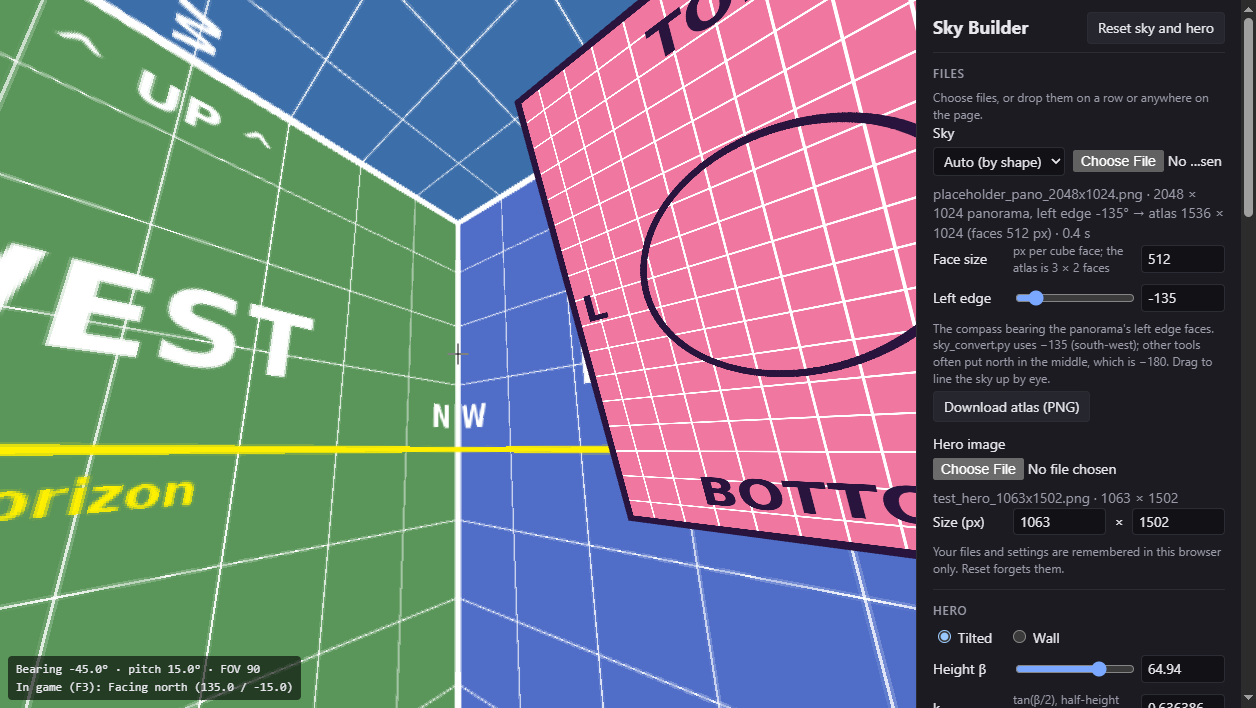
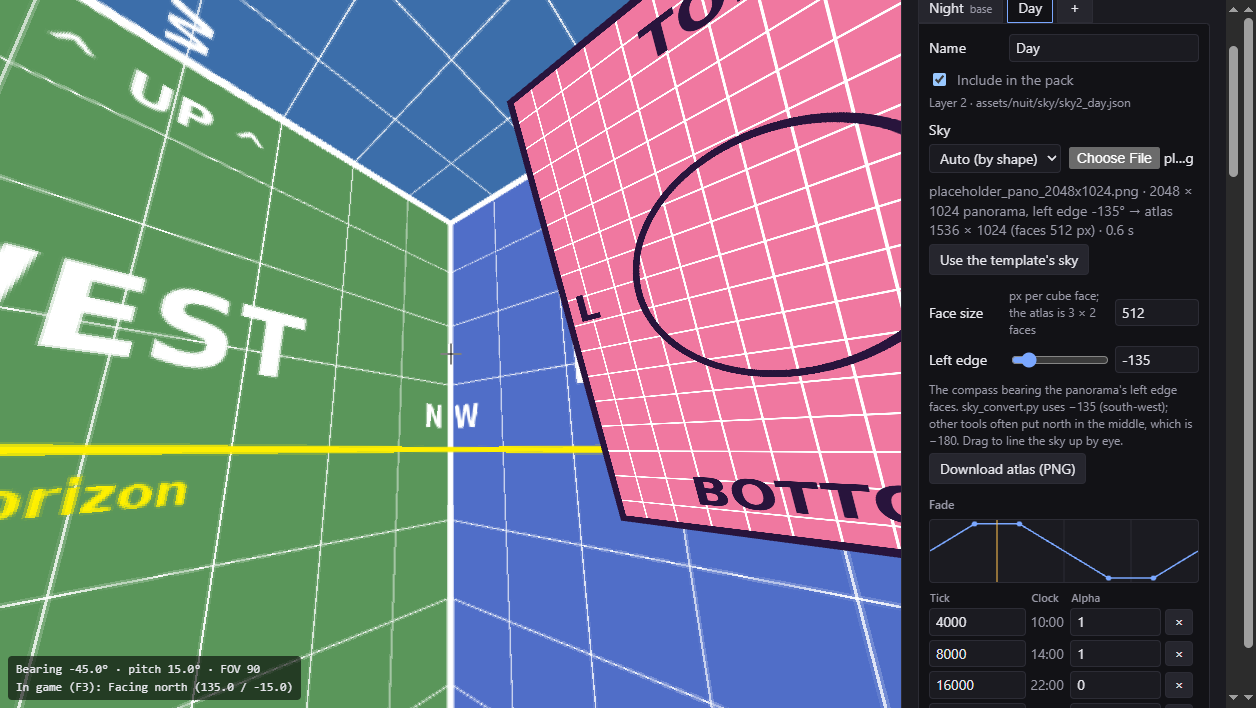
docs: record sky tabs as built (PLAN 17.13, BRIEF 2, 4.9, 5, 8-10, 13, 14, README)
BRIEF: the tool manages the sky layers as tabs (section 2); a new 4.9 on
fade and layer order from Fade, AbstractSkybox and SkyboxManager,
including that 26.2 has no alwaysOn; the hero's layer is automatic; the
tab inputs, Show selector, per-tab export and pack assembly; the blended
sky layers in place of the crossfade stretch goal; the new sources; and
a Sky tabs milestone. PLAN 17.13 records what was built, how it differs
from the plan, and what was checked in headless Edge. The README covers
the tabs, with new screenshots from the sample images.

diff --git a/docs/BRIEF.md b/docs/BRIEF.md
@@ -61,6 +61,15 @@ All three rotate together, once per in-game day, around the vertical axis.
 Their `rotation` blocks must be identical **except for `mapping`**, which only
 the hero layer changes. Working copies are in `reference/pack-example/`.
 
+**Sky tabs (since 2026-10-25, PLAN §17).** The tool manages the sky layers too, as
+tabs: one tab per `nuit:square-textured` layer, in layer order, so a pack can have
+night and day skies and more (sunrise, sunset, …). The first *included* tab is the
+**base**: always on, written with empty `fade.keyFrames`. Each tab after it fades in
+over the ones before by its keyframes (§4.9). With $m$ included tabs, the skies are
+layers $1 \ldots m$ and the hero is layer $m + 1$. The tool writes each sky layer's
+file too, keeping every field of the template's layer except `texture`, `layer` and
+`fade.keyFrames`.
+
 Textures live at `assets/sasheen/textures/sky/` and are referenced as
 `sasheen:textures/sky/<name>.png`. The JSON files live at `assets/nuit/sky/`.
 
@@ -184,6 +193,17 @@ Confirmed by reading the source (§13), and re-checked during planning (PLAN §1
    own sampler. So vanilla `.mcmeta` rules apply: without `"blur": true` a texture is
    sampled with nearest filtering and no mipmaps (the sky atlases); with it, linear
    filtering (the hero, via `hero.png.mcmeta`). Details in PLAN §1.6.
+9. **Fade and layer order** (`Fade.java`, `AbstractSkybox.updateAlpha`,
+   `SkyboxManager`; PLAN §17.1). A layer's alpha is its fade alpha times a
+   "conditions" alpha, which is 1 in the target environment (§1). `fade` has only
+   `duration` (default 24000) and `keyFrames` (tick → alpha, clamped to [0, 1]);
+   a keyframe outside $[0, \text{duration})$ makes the layer fail to load.
+   **There is no `alwaysOn` field**: empty `keyFrames` means always on. Otherwise
+   the alpha is interpolated **linearly** between the keyframes either side of
+   the time, wrapping round the day, in whole ticks (PLAN §17.2 has the formula).
+   Layers with alpha 0 are skipped; the rest are drawn in `layer` order, each
+   with the "normal" blend and `ColorModulator (1, 1, 1, alpha)`, so for opaque
+   atlases a layer over another shows $\alpha\,S + (1 - \alpha)\,C$.
 
 ---
 
@@ -225,7 +245,8 @@ Rules:
 - Round `uvRange` values to **4 decimal places** and `mapping` to **2**.
 - **Render the preview from the rounded values**, so the preview matches the
   game exactly.
-- Editable fields: `texture`, `layer`, `mapping` (X and Y; Z stays 0) and `uvRange`.
+- Editable fields: `texture`, `mapping` (X and Y; Z stays 0) and `uvRange`.
+  `layer` is set by the sky tabs: $m + 1$ for $m$ included tabs (§2).
 - Everything else stays fixed, especially `speed`, `axis` and `skyboxRotation`,
   which must match the sky layers.
 - Empty `keyFrames` means always visible. `conditions.worlds` is a legacy alias
@@ -326,7 +347,15 @@ then ×1.15 or ×1.5. In the file, `k` values are given unrounded; use them as-i
 ## 8. Functional requirements
 
 ### Inputs
-- **Sky:** file picker plus drag-and-drop, with a type dropdown: **Auto (by
+- **Sky tabs** (PLAN §17): a tab strip at the top of the panel, one tab per sky
+  layer, built from the pack template's sky layers. Tabs can be added, renamed,
+  reordered (drag, or Move) and deleted (one must remain). Each tab has an
+  **Include** checkbox, its own **Sky** (below), and its **fade keyframes**: rows
+  of tick, clock time and alpha, with a graph of the alpha over the day, "Add at
+  the current time", and "Template's" to restore the template layer's. The base
+  tab has none. A tab with no sky of its own shows the template's texture, or the
+  default sky (the starter's guide atlases).
+- **Sky** (per tab): file picker plus drag-and-drop, with a type dropdown: **Auto (by
   shape)** (the default), **Atlas** or **Panorama**. An atlas must be 3:2. A
   panorama must be 2:1 equirectangular; it is converted to an atlas in the browser
   with exactly `reference/sky_convert.py`'s convention (left edge = south-west),
@@ -337,8 +366,8 @@ then ×1.15 or ×1.5. In the file, `k` values are given unrounded; use them as-i
   message. Default to `reference/samples/placeholder_atlas.png`.
 - **Hero image:** file picker plus drag-and-drop. Read its width and height
   automatically, with manual override fields. Respect alpha.
-- **Reset:** one button puts back the sample sky, the test card and every hero
-  setting, after a confirmation (PLAN §13.8).
+- **Reset:** one button puts back the starter's sky tabs, the test card and every
+  hero setting, after a confirmation (PLAN §13.8, §17.9).
 - Everything runs locally in the browser. Use object URLs; never upload anything.
 
 ### Controls
@@ -351,10 +380,11 @@ Each slider has a linked number box, and the two stay in sync.
 | Bottom elevation b | −30° to 60° | 3° | |
 | Compass ψ (mapping Y) | −180° to 180° | 0° | Raw mapping Y; positive = toward west |
 | Mode | tilted / wall | tilted | Wall mode ships in M3 |
-| Time of day | 0–23 999 ticks | 6000 (noon) | **Preview only.** Shows clock time and θ. Play/pause. At noon θ = 0, so the hero sits exactly where the sliders say |
+| Time of day | 0–23 999 ticks | 6000 (noon) | **Preview only.** Shows clock time, θ and each sky layer's alpha. Play/pause. At noon θ = 0, so the hero sits exactly where the sliders say |
+| Show | all included tabs blended by time / this tab only | blended | **Preview only** (PLAN §17.5) |
 | Camera FOV | 30–110 | 70 | Minecraft's default is 70 |
 | Texture path | text | `sasheen:textures/sky/hero.png` | |
-| Layer | integer | 3 | |
+| Layer | read-out | 3 | Set by the sky tabs: $m + 1$ (§2) |
 
 ### Readouts
 $a$, $k$, $ak$, angular height and width, top and bottom elevations, distance
@@ -362,10 +392,11 @@ to each constraint limit, and warnings when a §6.1 constraint is broken.
 
 ### Outputs
 - A live JSON panel, with Copy and Download (`sky3_image.json`).
+- Per sky tab: Copy and Download of its layer file, as the pack would get it.
 - Download for `hero.png.mcmeta`.
-- **Assemble pack** (PLAN §16): a resource pack zip built from a template (uploaded, or the bundled starter),
-  with the current hero, its `.mcmeta`, this JSON, and the current sky as the day layer (or night, both or
-  neither).
+- **Assemble pack** (PLAN §16, §17.8): a resource pack zip built from a template (uploaded, or the bundled
+  starter), with the current hero, its `.mcmeta`, this JSON, and each included sky tab's layer file and sky.
+  Template sky layers whose tabs aren't included are left out.
 - Import: paste or load an existing `sky3_image.json` and recover the slider
   values (§6.3).
 
@@ -403,9 +434,11 @@ to each constraint limit, and warnings when a §6.1 constraint is broken.
   y rotation is $+\theta(T)$ from §4.7. The world transform is then
   $\text{Spin} \cdot M \cdot \mathbf{v}$, matching §4.5.
 - **Optional:** a toggle overlay that draws face edges and labels.
-- **Stretch:** day and night atlases with a crossfade preview using the day
-  layer's keyframes (4000 → 1, 8000 → 1, 16 000 → 0, 20 000 → 0, linear,
-  wrapping round), with night always on underneath.
+- **Sky layers** (PLAN §17.5): one set of six faces per tab, all in `spinGroup`.
+  The base is drawn opaque; each layer over it is transparent, with
+  `renderOrder` = its place and `opacity` = its fade alpha (§4.9), and hidden
+  at alpha 0. The hero and overlay draw above every sky layer. "This tab only"
+  shows the open tab alone, opaque.
 
 ---
 
@@ -417,15 +450,14 @@ to each constraint limit, and warnings when a §6.1 constraint is broken.
 - Editing the sky atlases themselves.
 - Any server or backend. The tool is a static site.
 
-**Planned:** a menu at the top of the app for separate day and night skies, so an assembled pack can get
-both at once (PLAN §16.6).
+**Done (2026-10-25):** separate day and night skies, and any number more, as sky tabs (PLAN §17).
 
 **Maybe later (back burner):** a heading control for sky *atlases*, like the
 panorama's left edge. It needs atlas → panorama → atlas resampling.
 
-**Stretch goals (after M5):** day/night crossfade preview; several heroes (each
-would be its own layer file, since `mapping` is per layer); remembering the
-last settings in `localStorage`.
+**Stretch goals:** several heroes (each would be its own layer file, since
+`mapping` is per layer, with its own fade keyframes). The crossfade preview and
+remembering settings are done.
 
 ---
 
@@ -487,7 +519,7 @@ Raise these in the plan. Don't guess silently. Status as of 2026-10-11:
 | `samples/starter_pack/` | The starter resource pack for Assemble pack: `pack.mcmeta`, the three layer files, and generated placeholder textures (PLAN §16.7) |
 | `samples/placeholder_pano_2048x1024.png` | The placeholder atlas as a panorama (`sky_convert.py to-pano`), for trying the panorama input |
 | `samples/pano_test_256x128.png`, `pano_test_atlas_f64.png`, `pano_test_atlas_f37.png` | A synthetic panorama and `sky_convert.py to-atlas` output from it at faces 64 and 37: test fixtures for the browser port (PLAN §13.5) |
-| `pack-example/assets/nuit/sky/*.json` | The three working layer files. Note: `sky1`/`sky2` still have the old top-level `"blend"` object, which 26.2 ignores |
+| `pack-example/assets/nuit/sky/*.json` | The three working layer files. Note: `sky1`/`sky2` still have the old top-level `"blend"` object and `fade.alwaysOn`, both of which 26.2 ignores |
 | `pack-example/.../hero.png.mcmeta` | The filtering metadata |
 | `sky_convert.py` | Atlas ↔ panorama converter. Source of the face table in §3 |
 | `place_billboard.py` | Earlier panorama-based method, kept for reference only |
@@ -506,6 +538,9 @@ Base path:
 - `common/src/main/java/me/flashyreese/mods/nuit/components/Properties.java`: property fields and defaults
 - `common/src/main/java/me/flashyreese/mods/nuit/components/Blend.java`: the blend string
 - `common/src/main/java/me/flashyreese/mods/nuit/skybox/textured/SquareTexturedSkybox.java`: face orientation for the sky layers
+- `common/src/main/java/me/flashyreese/mods/nuit/components/Fade.java`: the fade fields (§4.9)
+- `common/src/main/java/me/flashyreese/mods/nuit/skybox/AbstractSkybox.java`: a layer's alpha (§4.9)
+- `common/src/main/java/me/flashyreese/mods/nuit/SkyboxManager.java`: layer order and skipping (§4.9)
 
 ### Vanilla 26.2 data
 
@@ -548,3 +583,11 @@ After each one, stop and report what was done and exactly how to check it.
   export → import → identical JSON).
 - **M5, Polish** (built as PLAN §15; files are remembered too, in IndexedDB). Drag-and-drop, `localStorage`, a `vite build` that works on
   GitHub Pages, and a README with screenshots.
+- **Sky tabs** (added 2026-10-25, PLAN §17). Tabs for any number of sky layers,
+  fade keyframes, Include, the blended preview, per-tab export, and Assemble
+  pack from the tabs. Checks: with the starter's tabs, the Day alpha is 0.5, 1,
+  0.5 and 0 at 6 AM, noon, 6 PM and midnight, in the preview and the readout;
+  excluding Night makes Day the always-on base, and the pack leaves out
+  `sky1_night.json`; a new tab becomes a new layer file with its own texture; a
+  reload brings back the tabs and their skies; a v1 session's sky becomes the
+  Day tab's.

diff --git a/docs/PLAN.md b/docs/PLAN.md
@@ -1,7 +1,8 @@
 # Sky Builder: implementation plan
 
 Status: **All milestones (M1–M5), the panorama input and Assemble pack (section 16) are done, merged and live at <https://0xsasheen.github.io/sky-builder/>** (2026-10-24).
-**Next: sky tabs with day/night blending (section 17), planned 2026-10-25 and waiting for approval.**
+**Sky tabs with day/night blending (section 17) are built and checked on branch `sky-tabs` (2026-10-25)**, waiting for
+the developer's in-game check and the merge.
 Decisions are in sections 11–17.
 
 Contents: 1. Source verification · 2. Architecture · 3. Types · 4. `math.ts` API and tests ·
@@ -208,6 +209,9 @@ src/
   scene.ts       Three.js: sky planes, hero quad, heroGroup, spinGroup, camera, overlay
   view.ts        drag-to-look + "look at hero" / "look north" (camera yaw/pitch only)
   ui.ts          controls, readouts, warnings, file loading, JSON panel, import/export
+  tabs.ts        the sky tabs (section 17): pure, like math.ts
+  pack.ts        reading templates and assembling packs (section 16)
+  saved.ts       what is remembered between visits (sections 15, 17.9)
   main.ts        creates state, wires ui -> state -> json -> scene, owns the render loop
 tests/
   math.test.ts   test vectors §7, scaling, inverse, round trip, spin, constraints
@@ -215,6 +219,8 @@ tests/
   faces.test.ts  Nuit face matrices vs our face table; hero placement (uses three, not the DOM)
   view.test.ts   scene.ts's face meshes and view.ts's camera: the M2 and M3 checks, done geometrically
   panorama.test.ts  panorama → atlas against sky_convert.py's convention and its own output (section 13)
+  tabs.test.ts   the sky tabs, layer plan, layer files and preview layers (section 17)
+  pack.test.ts, saved.test.ts   templates and packs; the saved session and the v1 migration
   png.ts         a small PNG reader for the test fixtures
 ```
 
@@ -1135,7 +1141,7 @@ the starter is used. An uploaded template wins over the starter.
 
 ---
 
-## 17. Sky tabs, with day/night blending (planned 2026-10-25, waiting for approval)
+## 17. Sky tabs, with day/night blending (approved 2026-10-25, built on branch `sky-tabs`)
 
 **Request:** separate day and night skies, blended by time of day as Nuit blends them, with editable fade keyframes.
 They are organised as **tabs** (Day, Night, and later any number more, such as Sunrise or Sunset), and each tab has an
@@ -1413,6 +1419,80 @@ The tab's status line and the pack report both say "using the default sky" (ambe
 - **§10:** the day/night menu is done; several heroes stays a stretch goal.
 - **§13:** the three Nuit files above.
 - **§14:** a "Sky tabs" milestone with the checks in 17.10.
+
+### 17.13 As built
+
+**Where the code is.**
+- `math.fadeAlpha` is the port of Nuit's fade.
+- `src/tabs.ts` holds the pure tab model:
+  - `mergeTemplate`, `layerPlan`, `effectiveKeyFrames`, `previewLayers`, `keyFrameProblems`, `skySource` and
+    `tabNotes`;
+  - `layerJson` and `layerOutputs`, which write the layer files.
+- `pack.ts` has `assembleTabs`, and `readTemplate` now reports each sky layer's `layer` value, keyframes and duration,
+  plus the template's other Nuit layers.
+- `scene.ts` has `layerDrawSettings` (pure) and one face group per tab (`setSkyLayers`, `setAtlas(tabId, …)`,
+  `setSkyTurnDeg(tabId, …)`, `removeSkyLayer`).
+- `saved.ts` has v2 and `fromSavedV1`.
+- `imagestore.ts` has the `sky:<tab id>` slots.
+- The tab strip, panel, keyframe editor, graph, Show selector and pack summary are in `ui.ts` and `index.html`.
+- `main.ts` has the per-tab sky state: its own file, load counter, converter, status, panorama options and
+  pack PNG.
+
+**Differences from the plan.**
+- **Commit order.** Every commit builds and passes its tests. So `assembleTabs` first sat beside `assemblePack`,
+  and `main.ts` showed its single sky as the only layer until the UI commit. That commit then removed
+  `assemblePack`, `SkyTarget` and `Session.packSky`. `saved.ts` v2 moved into the UI commit too, because its
+  `Session` type is tied to `main.ts`.
+- **Template layers.** `readTemplate` keeps a sky layer's `role` (night or day, now from empty keyFrames) as a label.
+  Nothing decides anything by it any more.
+- **Restoring a session** links saved tabs to the remembered template's layers, by file and then by name, without
+  adding a tab for a layer no tab takes. So a deleted tab stays deleted, while loading a template adds missing tabs
+  (decision 6).
+- **Keyframe edits** commit on Enter or when leaving the box, as the whole list. Alphas are clamped to [0, 1] and the
+  rows re-sorted by tick. **Add at the current time** refuses a tick that already has a keyframe, with a note, rather
+  than make a red duplicate.
+- **"Use the template's sky" / "Use the default sky"** appears when a tab has its own sky, and forgets it.
+- **Hero layer.** An imported JSON's layer is replaced by the tabs' hero layer, with an import note when it differs.
+- **Shared names.** A new tab's file name uses its layer number at the time of writing (for example
+  `sky2_sunrise.json` when Night is left out). It can share a `sky<n>_` prefix with another file
+  (`sky3_image.json`); Nuit loads every file in the folder, so only the `layer` values matter.
+
+**Checked in headless Edge** (fresh profiles, the dev server, files picked through the DevTools protocol):
+- **The starter's tabs.**
+  - Night (base) and Day open on the template's guide atlases.
+  - The Day alpha reads 0.50, 1.00, 0.50 and 0.00 at 6 AM, noon, 6 PM and midnight.
+  - The 6 AM view shows the two atlases half blended; midnight shows Night alone.
+- **Editing keyframes.**
+  - Setting Day's 4000 keyframe to 0.6 gives 0.80 at noon; **Template's** restores it.
+  - Tick 24000 gives a red row and a red note.
+- **A new tab.**
+  - **+** makes "Sky 3" (layer 3) with both amber notes, and the hero moves to layer 4.
+  - The name "Day" is refused.
+  - Renamed "Sunrise" with keyframes {0: 0, 23000: 1}, it is at alpha 1 at 05:00.
+- **Excluding Night.**
+  - Day becomes "Layer 1, the base: always on", and its editor is hidden.
+  - The preview note explains that the blend leaves Night out.
+  - The hero goes to layer 3.
+- **Per-tab Download** of Sunrise gives the starter day layer's fields with `texture`
+  `sasheen:textures/sky/sunrise.png`, `layer` 2 and the two keyframes.
+- **Assemble pack**, starter skies:
+  - `sky1_night.json` and `night.png` are left out (with a note), and `sky2_day.json` has layer 1 and `{}`.
+  - `sky2_sunrise.json` and a `sunrise.png` holding the default day atlas are added, and the hero is at layer 3.
+- **Assemble pack**, the tabs' own skies:
+  - Day's `placeholder_atlas.png` goes in byte for byte (49 469 bytes).
+  - Sunrise's panorama, converted in its own worker in 0.5 s, goes in as its converted PNG.
+- **Move**, **Delete**, **This tab only** and **Reset** behave as planned.
+- **A reload** brings back the tabs, Include, the open tab, the keyframes, the time and both tabs' files (the
+  panorama is converted again).
+- **A v1 session** (a v1 entry and the old `sky` image) comes back with its sky as the Day tab's, typed `atlas`,
+  under `sky:<id>`, and with the hero's ψ = 30. The v1 key and the `sky` slot are removed.
+- No console errors throughout.
+
+**Tests:** 214 in all, adding `fadeAlpha` (with the independent periodic check), `tabs.test.ts`, `assembleTabs`, the
+blended draw order in `view.test.ts`, and v2 sessions with the v1 migration.
+
+**Still to do:** the developer's check in game. Assemble with the starter's tabs, then compare the preview with the
+game at `/time set 0`, `6000`, `12000` and `18000`.
 
 ---
 

diff --git a/README.md b/README.md
@@ -13,37 +13,53 @@ your computer.
 
 - **Shows your sky** as the cube Nuit draws, with drag-to-look. Load a sky atlas, or a panorama, which it
   converts for you.
+- **Blends day and night skies** (and any more you like, such as a sunrise) as Nuit does. Each sky is a tab with its
+  own image and fade keyframes, and the preview fades them by the time of day.
 - **Places the hero** with a few controls: its size, the height of its bottom edge, and its compass direction.
   *Tilted* mode keeps it facing you like a billboard; *wall* mode stands it upright on the north wall.
 - **Warns you** when the image would spill off its cube face (Nuit would bend it over the edge) or tip over the
   zenith, and shows its angular size and edges.
-- **Plays the day**: a time slider using vanilla's sun curve, so you can watch the hero cross the sky as it will in game.
+- **Plays the day**: a time slider using vanilla's sun curve, so you can watch the sky turn, the day and night
+  skies fade into each other, and the hero cross the sky, as they will in game.
 - **Exports** `sky3_image.json` and `hero.png.mcmeta` exactly as Nuit 26.2 expects them, and **imports** an existing
   `sky3_image.json` so you can keep editing it.
-- **Assembles a resource pack** from a template, ready to drop into `resourcepacks/`.
+- **Assembles a resource pack** from a template, with every sky layer and the hero, ready to drop into
+  `resourcepacks/`.
 - **Remembers** your files and settings in your browser until you press *Reset*.
 
 ## Quick start
 
-1. **Sky.** Drop your sky onto the page. It can be an atlas (a 3 × 2 grid of cube faces, the layout
-   `nuit:square-textured` uses) or a 2:1 equirectangular panorama. A panorama is converted in the browser:
-   use **Download atlas (PNG)** to keep the atlas for your pack. If the converted sky comes out turned, drag
-   **Left edge** until it lines up.
+1. **Skies.** Under **Sky tabs**, open a tab (**Night**, **Day**, or a new one with **+**) and drop its sky onto the
+   page. It can be an atlas (a 3 × 2 grid of cube faces, the layout `nuit:square-textured` uses) or a 2:1
+   equirectangular panorama. A panorama is converted in the browser: use **Download atlas (PNG)** to keep the atlas
+   for your pack. If the converted sky comes out turned, drag **Left edge** until it lines up.
+   - The first included tab is the **base**, always on. Each tab after it fades in over the ones before, by its
+     **Fade** keyframes: at each tick, how visible it is, from 0 to 1. The Day tab starts with the starter pack's
+     (full day from 10 AM to 2 PM, gone from 10 PM to 2 AM).
+   - Untick **Include in the pack** to leave a sky out. With one sky included, it is always on and just turns.
 2. **Hero.** Drop your hero image. PNG transparency is kept.
 3. **Place it.** Set **Height β** (or use the × and ÷ buttons), **Bottom b** (the elevation of its bottom edge) and
    **Turn ψ** (positive turns it west). **Look at hero** points the camera at it.
-4. **Check it.** Move the time slider or press ▶. Fix anything shown in red; you can still export, after a confirmation.
+4. **Check it.** Move the time slider or press ▶; the line under it shows how visible each sky is. Fix anything
+   shown in red; you can still export, after a confirmation.
 5. **Name it.** Set **Texture** to where the image will be in your pack, such as `mypack:textures/sky/hero.png`.
 6. **Export.** Download `sky3_image.json` and the `.mcmeta` file.
 
-![A panorama converted to an atlas, with the left-edge control](docs/screenshots/panorama.png)
+![A panorama converted to an atlas in the Day tab, with the left-edge control](docs/screenshots/panorama.png)
+
+![Night and Day half blended at 6 AM, with the Day tab's fade keyframes](docs/screenshots/tabs.png)
 
 ### Or assemble the whole pack
 
-In **Resource pack**, choose your own pack template (a `.zip`), or keep the built-in starter, then press
-**Assemble pack**. You get a new zip with your hero, its `.mcmeta`, `sky3_image.json`, and your sky as the day
-layer, or the night layer, or both. Everything else in the template is copied as it is. Drop the zip into
-`resourcepacks/`.
+In **Resource pack**, choose your own pack template (a `.zip`), or keep the built-in starter. Loading a template
+makes one sky tab per sky layer it has. Then press **Assemble pack**. You get a new zip with:
+
+- your hero, its `.mcmeta` and `sky3_image.json`;
+- each included sky tab's layer file and sky. A tab without a sky of its own keeps the template's, or gets a guide
+  atlas.
+
+Layers whose tabs you left out are removed. Everything else in the template is copied as it is. Drop the zip into
+`resourcepacks/`. Each tab can also export just its layer file (**Download sky2_day.json**, for example).
 
 ## Putting it in your pack
 
@@ -60,7 +76,10 @@ assets/
 
 - **The hero turns with the sky** only if every sky layer's `rotation` matches the hero's: `"speed": 1.0`,
   `"axis": {"0": [0.0, 0.0, 0.0]}` and `"skyboxRotation": false`. Only `mapping` differs between layers.
-- **Layers draw in `layer` order**, so layer 3 puts the hero over sky layers 1 and 2.
+- **Layers draw in `layer` order.** Sky Builder numbers them for you: the included sky tabs are 1, 2, … in tab
+  order, and the hero comes last.
+- **A sky layer with no fade keyframes is always on**, and hides every layer below it. Only the first, the base,
+  should have none. (Nuit 26.2 has no `alwaysOn` setting; older packs that have one can drop it.)
 - Press **F3 + T** in game to reload resource packs.
 
 ![The JSON panel, with export and import](docs/screenshots/export.png)
@@ -88,8 +107,8 @@ npm run build     # production build into dist/
 
 - [`docs/BRIEF.md`](docs/BRIEF.md) is the specification, and [`docs/PLAN.md`](docs/PLAN.md) records the design
   and how each detail was checked.
-- The maths is in `src/math.ts` (pure functions, tested); `src/json.ts` writes and reads the exact JSON;
-  `src/scene.ts` is the Three.js preview.
+- The maths is in `src/math.ts` and the sky tabs in `src/tabs.ts` (pure functions, tested); `src/json.ts` writes and
+  reads the exact JSON; `src/pack.ts` builds packs; `src/scene.ts` is the Three.js preview.
 - Every push to `main` is tested, built and published to GitHub Pages by
   [`.github/workflows/deploy.yml`](.github/workflows/deploy.yml).
 
